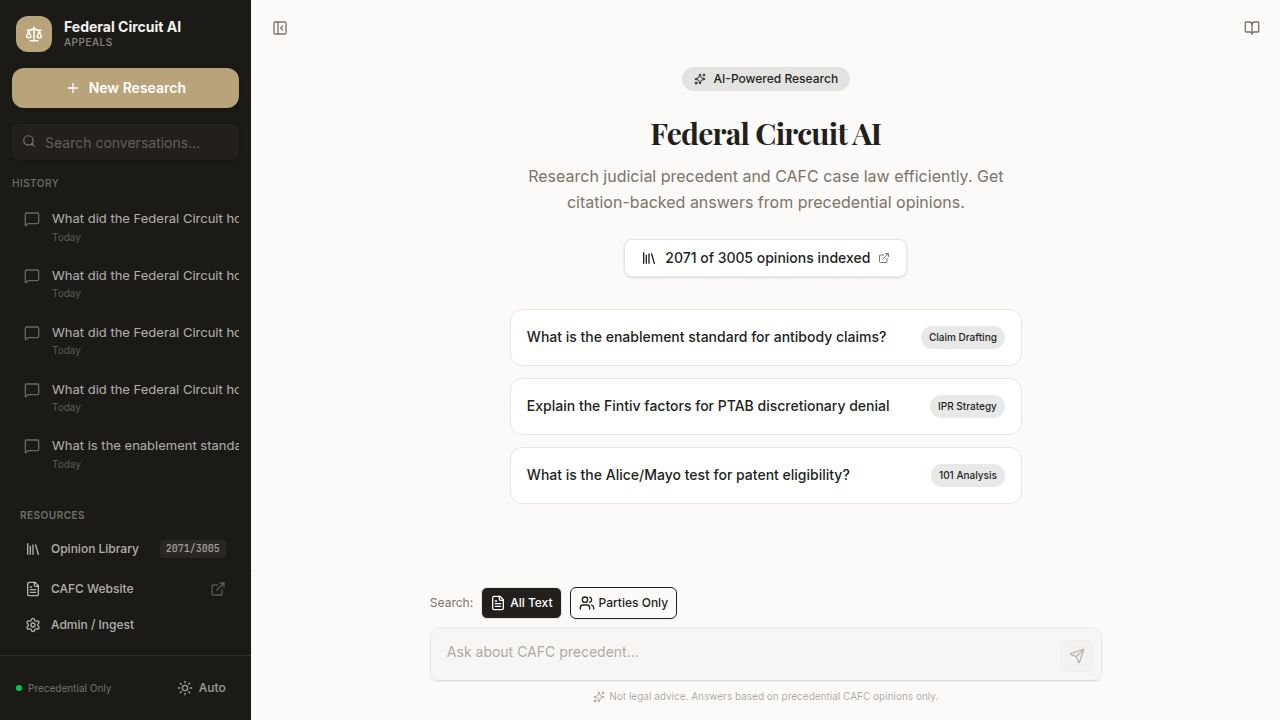
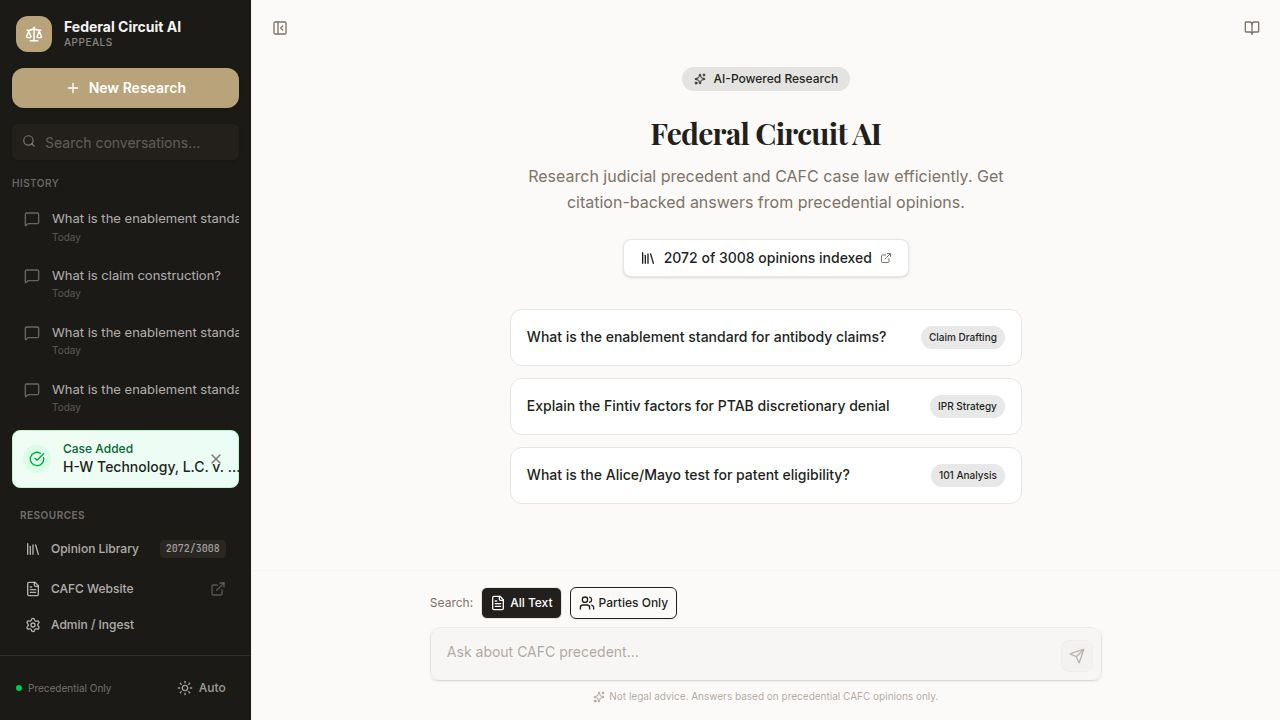
Add web search fallback for AI when cases are not found
Implement a web search fallback mechanism that triggers a search, ingests new cases, and retries the query when the AI cannot find relevant information in the provided opinions.

Replit-Commit-Author: Agent
Replit-Commit-Session-Id: 0608863a-c6de-4dca-b7b4-8b1d73e154b5
Replit-Commit-Checkpoint-Type: full_checkpoint
Replit-Commit-Event-Id: 953f74cf-7190-472b-8c5b-a2f300c29ce6
Replit-Commit-Screenshot-Url: https://storage.googleapis.com/screenshot-production-us-central1/650168ab-ab63-4784-bdec-74acb30694c8/0608863a-c6de-4dca-b7b4-8b1d73e154b5/EDgfjW3
Replit-Helium-Checkpoint-Created: true

diff --git a/backend/chat.py b/backend/chat.py
@@ -1407,24 +1407,110 @@ async def generate_chat_response(
         raw_answer = response.choices[0].message.content or "No response generated."
         
         if "NOT FOUND IN PROVIDED OPINIONS" in raw_answer.upper():
-            return standardize_response({
-                "answer_markdown": "NOT FOUND IN PROVIDED OPINIONS.\n\nThe ingested opinions do not contain information relevant to your query. Try ingesting additional opinions or refining your search.",
-                "sources": [],
-                "debug": {
-                    "claims": [],
-                    "support_audit": {"total_claims": 0, "supported_claims": 0, "unsupported_claims": 1},
-                    "search_query": message,
-                    "search_terms": search_terms,
-                    "pages_count": len(pages),
-                    "pages_sample": [{"opinion_id": p.get("opinion_id"), "case_name": p.get("case_name"), "page_number": p.get("page_number")} for p in pages[:5]],
-                    "markers_count": 0,
-                    "markers": [],
-                    "sources_count": 0,
+            # AI couldn't find relevant info in local results - try web search as fallback
+            logging.info(f"AI returned NOT FOUND, attempting web search fallback for: {message[:100]}")
+            
+            try:
+                web_search_result = await try_web_search_and_ingest(message, conversation_id)
+                
+                if web_search_result.get("success") and web_search_result.get("new_pages"):
+                    # Successfully ingested new cases, retry with the new pages
+                    new_pages = web_search_result["new_pages"]
+                    logging.info(f"Web search fallback found {len(new_pages)} new pages, retrying query")
+                    
+                    # Build context using the standard format for consistency
+                    new_context = build_context(new_pages[:15])
+                    new_user_prompt = f"OPINION EXCERPTS:\n{new_context}\n\n---\n\nQUESTION: {message}"
+                    
+                    try:
+                        # Make new API call with fresh context
+                        retry_response = await asyncio.wait_for(
+                            asyncio.get_event_loop().run_in_executor(
+                                _executor,
+                                lambda: client.chat.completions.create(
+                                    model="gpt-4o",
+                                    messages=[
+                                        {"role": "system", "content": SYSTEM_PROMPT},
+                                        {"role": "user", "content": new_user_prompt}
+                                    ],
+                                    temperature=0.2,
+                                    max_tokens=2500,
+                                    timeout=60.0
+                                )
+                            ),
+                            timeout=90.0
+                        )
+                        
+                        retry_answer = retry_response.choices[0].message.content or "No response generated."
+                        
+                        # If still not found after retry, return with web search info (don't retry again)
+                        if "NOT FOUND IN PROVIDED OPINIONS" in retry_answer.upper():
+                            case_names = web_search_result.get("cases_found", [])
+                            web_info = ""
+                            if case_names:
+                                web_info = f"\n\n**New cases were ingested but no relevant excerpts found.**\n\nIngested: " + ", ".join(case_names[:3])
+                            
+                            return standardize_response({
+                                "answer_markdown": f"NOT FOUND IN PROVIDED OPINIONS.{web_info}\n\nThe topic may require more specialized case law. Try refining your search terms.",
+                                "sources": [],
+                                "web_search_triggered": True,
+                                "debug": {
+                                    "claims": [],
+                                    "support_audit": {"total_claims": 0, "supported_claims": 0, "unsupported_claims": 1},
+                                    "search_query": message,
+                                    "web_search_result": web_search_result,
+                                    "return_branch": "web_search_fallback_still_not_found"
+                                }
+                            })
+                        
+                        # Success! Update raw_answer and pages for downstream processing
+                        raw_answer = retry_answer
+                        pages = new_pages
+                        
+                    except Exception as retry_err:
+                        logging.error(f"Retry API call failed: {retry_err}")
+                        # Fall through to return NOT FOUND with web search info
+                        case_names = web_search_result.get("cases_found", [])
+                        return standardize_response({
+                            "answer_markdown": f"NOT FOUND IN PROVIDED OPINIONS.\n\nNew cases were discovered and ingested, but an error occurred. Please try your query again.",
+                            "sources": [],
+                            "web_search_triggered": True,
+                            "debug": {"return_branch": "web_search_retry_error", "error": str(retry_err)}
+                        })
+                else:
+                    # Web search didn't find anything either
+                    web_info = ""
+                    case_names = web_search_result.get("cases_found", [])
+                    if case_names:
+                        web_info = f"\n\n**Potentially relevant cases found but not yet indexed:**\n- " + "\n- ".join(case_names[:5])
+                    
+                    return standardize_response({
+                        "answer_markdown": f"NOT FOUND IN PROVIDED OPINIONS.{web_info}\n\nThe ingested opinions do not contain information relevant to your query. Try ingesting additional opinions or refining your search.",
+                        "sources": [],
+                        "web_search_triggered": True,
+                        "debug": {
+                            "claims": [],
+                            "support_audit": {"total_claims": 0, "supported_claims": 0, "unsupported_claims": 1},
+                            "search_query": message,
+                            "web_search_result": web_search_result,
+                            "return_branch": "llm_returned_not_found_web_search_no_results"
+                        }
+                    })
+                    
+            except Exception as web_err:
+                logging.error(f"Web search fallback failed: {web_err}")
+                # Return original NOT FOUND response if web search fails
+                return standardize_response({
+                    "answer_markdown": "NOT FOUND IN PROVIDED OPINIONS.\n\nThe ingested opinions do not contain information relevant to your query. Try ingesting additional opinions or refining your search.",
                     "sources": [],
-                    "raw_response": raw_answer,
-                    "return_branch": "llm_returned_not_found"
-                }
-            })
+                    "debug": {
+                        "claims": [],
+                        "support_audit": {"total_claims": 0, "supported_claims": 0, "unsupported_claims": 1},
+                        "search_query": message,
+                        "return_branch": "llm_returned_not_found_web_search_error",
+                        "web_search_error": str(web_err)
+                    }
+                })
         
         # Handle AMBIGUOUS QUERY response - pass through the clarification message
         if "AMBIGUOUS QUERY" in raw_answer.upper() or "MULTIPLE MATCHES FOUND" in raw_answer.upper():
